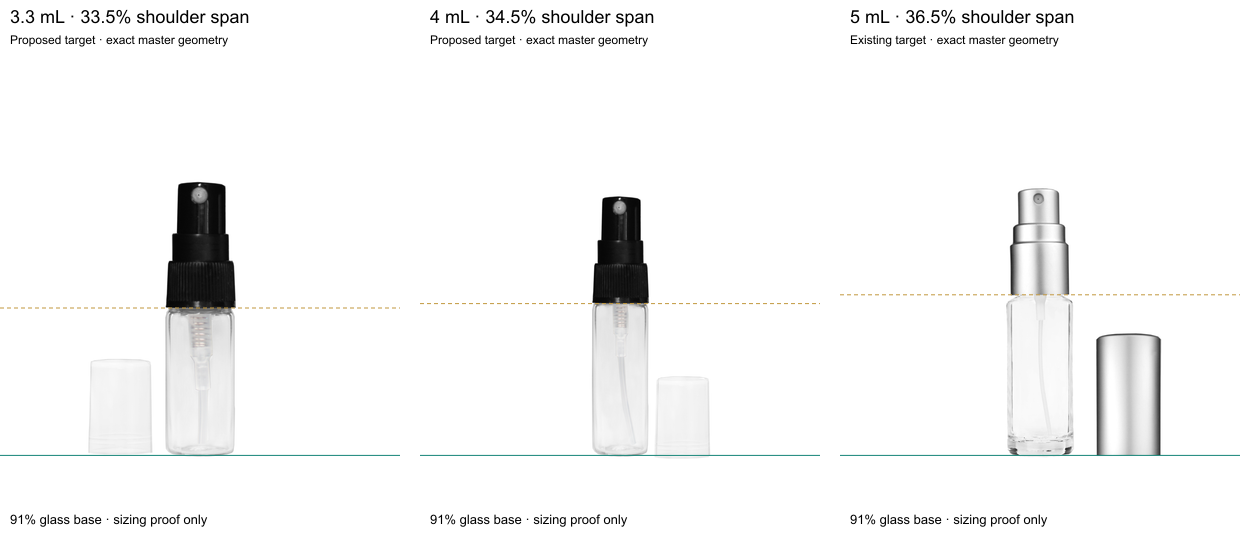
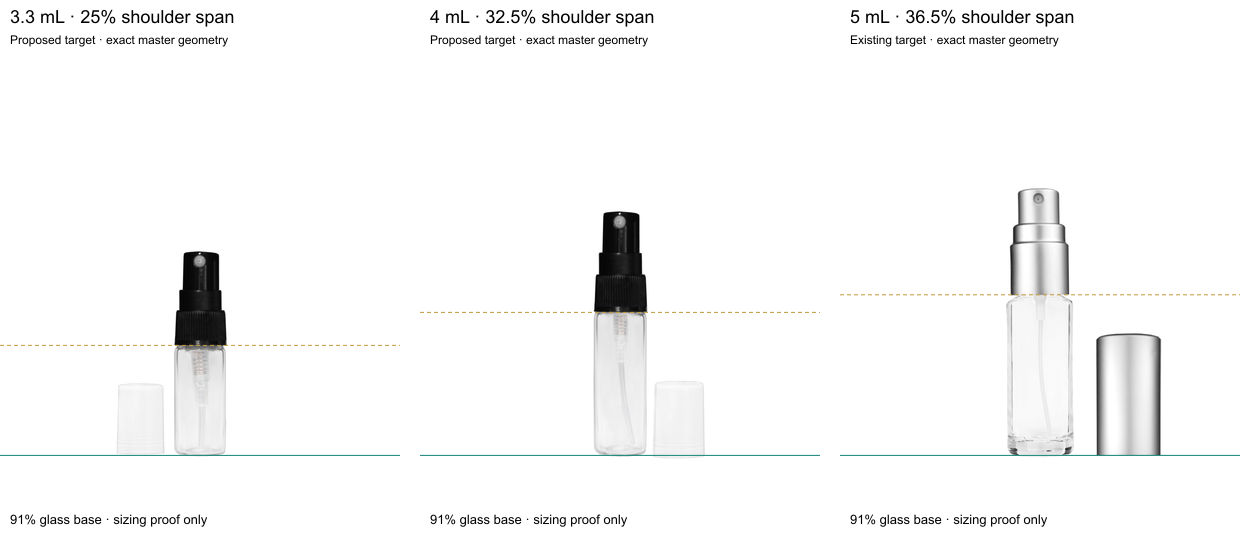
Lock approved small Cylinder visual size progression

Changed region(s): [[0.1238, 0.3036, 0.1857, 0.8196], [0.4643, 0.3339, 0.5262, 0.6071], [0.0619, 0.0, 0.1857, 0.0607]]

diff --git a/docs/hero-families/cylinder-2026-09-22/README.md b/docs/hero-families/cylinder-2026-09-22/README.md
@@ -61,6 +61,8 @@ The expanded all-33 browser audit passes on both `/catalog` and `/catalog/cylind
 
 Jordan explicitly includes the 3.3 mL and 4 mL sample sprayers in this family. The glass scope is now **49 catalog groups**, with 27 groups covered by the 33 staging images. **22 groups plus four additional roller variants remain (26 images)**. The existing staging deployment and image bytes are unchanged by this planning update.
 
-Initial shoulder-span proposals are **33.5% for 3.3 mL** and **34.5% for 4 mL**, respectively 3 and 2 percentage points below the 5 mL target of 36.5%. All retain a 91% glass foot and a 2080 × 2288 delivery canvas. Each small bottle has its own physical profile and exact master source; caps and pumps never set glass scale. These normalized display targets intentionally compress physical height differences for ecommerce thumbnails.
+Approved shoulder spans are **25% for 3.3 mL** and **32.5% for 4 mL**, compared with the unchanged 5 mL target of 36.5%. Jordan rejected the earlier 33.5%/34.5% comparison because it did not read visually smaller from one size to the next. All retain a 91% glass foot and a 2080 × 2288 delivery canvas. Each small bottle has its own physical profile and exact master source; caps and pumps never set glass scale. These normalized display targets intentionally compress physical height differences for ecommerce thumbnails.
 
-[The source sizing proof](3-4-5ml-scale-proof.png) shows the untouched master appearance under one uniform assembly transform. It is not a new premium render or a final approved lock. The source pairs and hashes match the earlier recovered-sprayer audit. Both will use the approved clear-glass material reference in the next generation pass. `small-cylinder-sizing-proposal.json` preserves geometry, measurements, current identities, the older 3 mL metadata discrepancy, and the draft transforms. No image API calls were made for this scope/size proof.
+[The source sizing proof](3-4-5ml-scale-proof.png) shows the untouched master appearance under one uniform assembly transform. Jordan accepted the revised sizing proof (“That’s better”). This approves the sizing only; it is not a new premium render. The source pairs and hashes match the earlier recovered-sprayer audit. Both will use the approved clear-glass material reference in the next generation pass. `small-cylinder-sizing-proposal.json` preserves geometry, measurements, current identities, the older 3 mL metadata discrepancy, and the draft transforms. No image API calls were made for this scope/size proof.
+
+The corrected proof validates two independent visual measures: both whole-assembly height and glass-body width increase from 3.3 to 4 to 5 mL. The 3.3 mL glass body is approximately 2.4% narrower than the 4 mL. A uniform assembly transform preserves original pump/cap/bottle proportions; Jordan accepted this revised sizing proof; the 25% and 32.5% shoulder targets are now locked for generation.
